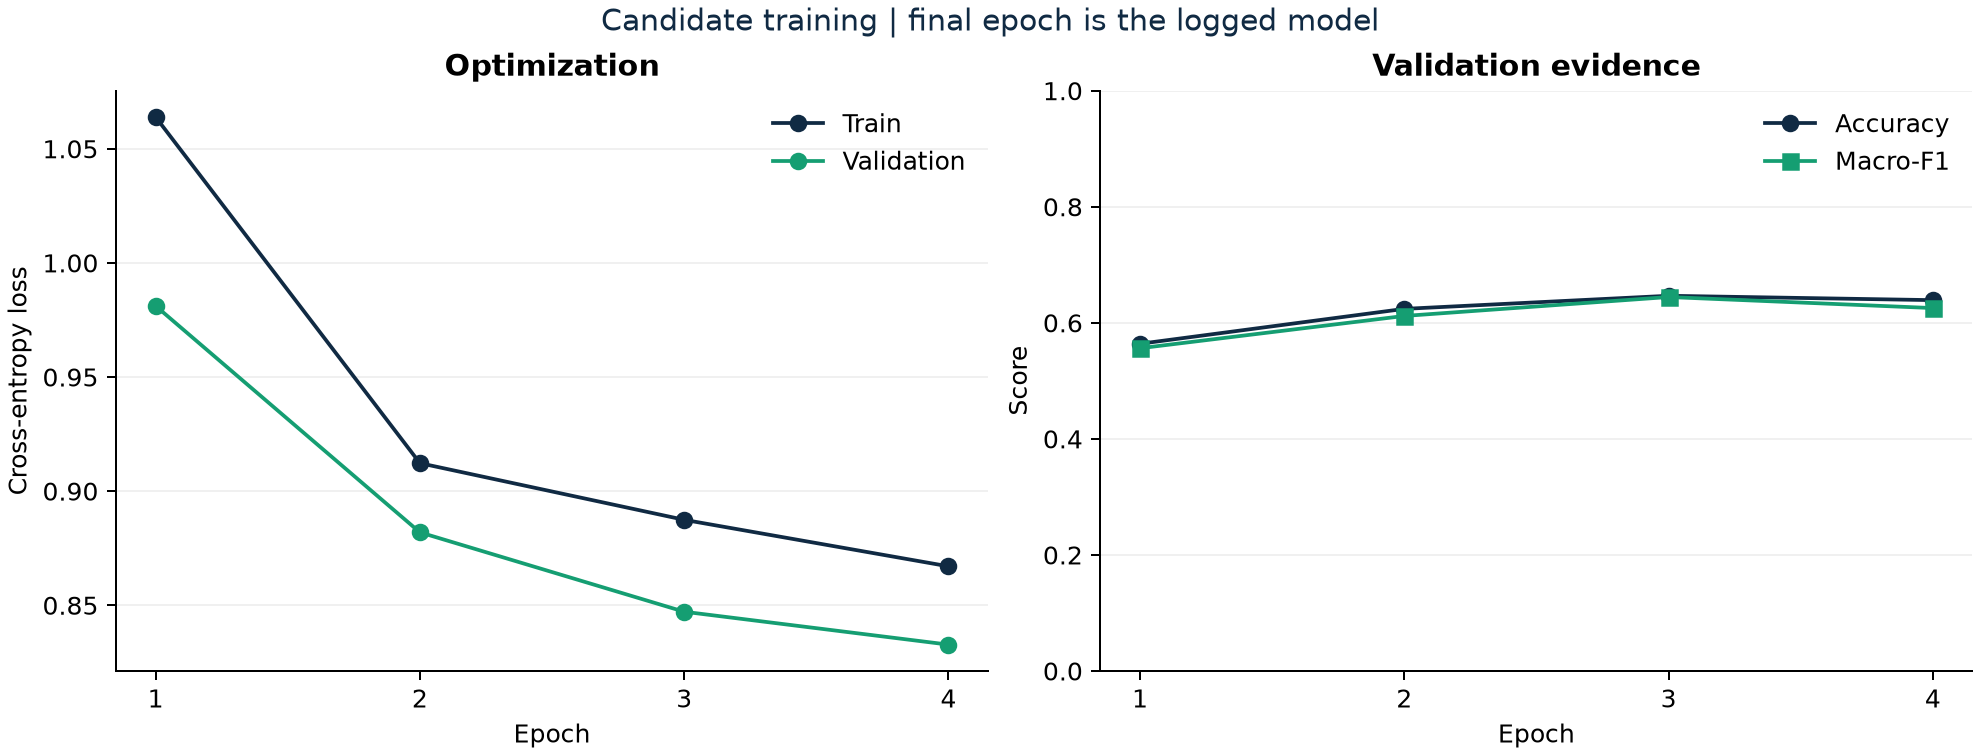
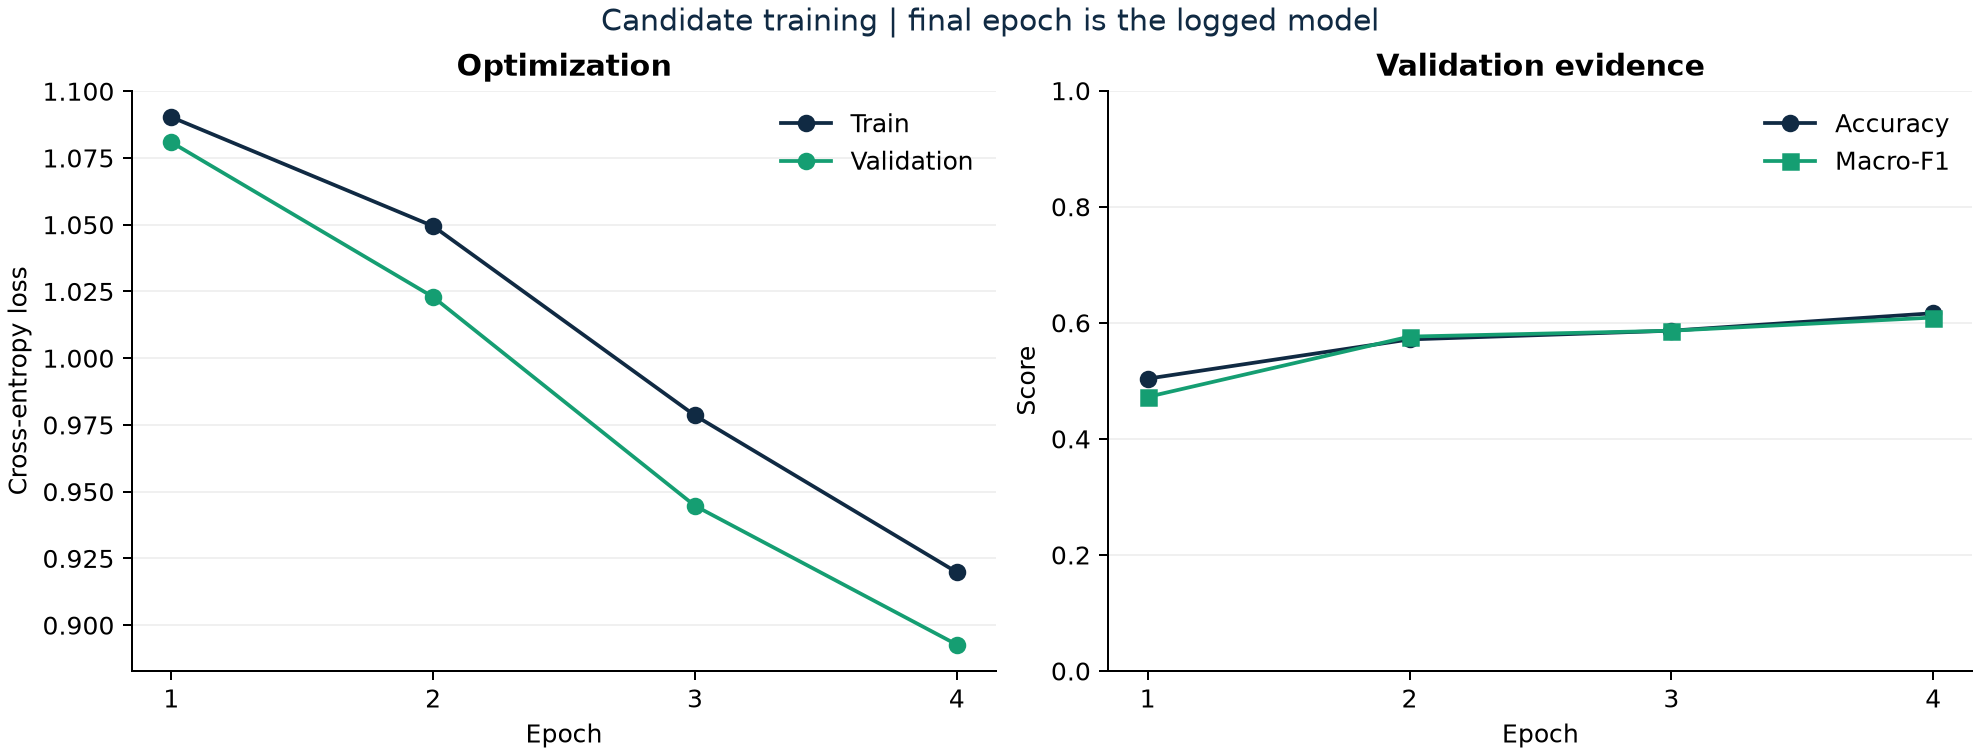
Record Run B and the recomputation checks

diff --git a/LAB_REPORT.md b/LAB_REPORT.md
@@ -359,3 +359,42 @@ Stage 'train' didn't change, skipping
 $ sha256sum -c   (hash of reports/data_quality.json taken before the run)
 reports/data_quality.json: OK
 ```
+
+### 6.4 Run B (learning rate 0.0003)
+
+`params.yaml` changed and committed alone (`a9b7b9d Lower the learning rate for Run B`), then `uv run --locked dvc repro train`:
+
+```
+'data/raw.dvc' didn't change, skipping
+Stage 'validate' didn't change, skipping
+Stage 'prepare' didn't change, skipping
+Running stage 'train':
+Epoch 01/4 | train_loss=1.0903 | val_loss=1.0809 | val_acc=0.5038 | val_macro_f1=0.4723
+Epoch 02/4 | train_loss=1.0495 | val_loss=1.0229 | val_acc=0.5714 | val_macro_f1=0.5763
+Epoch 03/4 | train_loss=0.9785 | val_loss=0.9447 | val_acc=0.5865 | val_macro_f1=0.5864
+Epoch 04/4 | train_loss=0.9198 | val_loss=0.8927 | val_acc=0.6165 | val_macro_f1=0.6091
+Training complete. MLflow Run ID: e4c8dd28b6e44247a8561f226dd8ac7e
+Updating lock file 'dvc.lock'
+```
+
+**Run B ID: `e4c8dd28b6e44247a8561f226dd8ac7e`** (MLflow shows `learning_rate=0.0003`, all other params identical to Run A).
+
+Its manifest records commit `a9b7b9d` with `dirty: true` and `changed_paths: [reports/run_manifest.json, reports/train_summary.json, reports/training_curves.png]`: DVC deletes a stage's previous outputs before running it, so Git sees TRAIN's own reports as deleted when the manifest is written. The code and params in that commit are exactly what was run.
+
+### Observed recomputation
+
+| Check | VALIDATE | PREPARE | TRAIN | EVALUATE | Evidence |
+|-------|----------|---------|-------|----------|----------|
+| 1. Rerun, nothing changed | REUSED | REUSED | REUSED | NOT RUN | `Stage 'validate' didn't change, skipping` (same for prepare, train), `Data and pipelines are up to date.` |
+| 2. Comment in `src/validate_data.py`, report unchanged | RERUN | REUSED | REUSED | NOT RUN | `Running stage 'validate'`, `Stage 'prepare' didn't change, skipping`, `Stage 'train' didn't change, skipping`; report hash unchanged (`sha256sum -c`: OK) |
+| 3. `train.learning_rate` 0.001 to 0.0003 | REUSED | REUSED | RERUN | NOT RUN | `Stage 'validate' didn't change, skipping`, `Stage 'prepare' didn't change, skipping`, `Running stage 'train'` |
+
+EVALUATE is NOT RUN in every check because `dvc repro train` only runs `train` and its upstream stages, and EVALUATE is on a separate branch of the DAG.
+
+**Comparison with the predictions.** All observed results match the predictions for VALIDATE, PREPARE and TRAIN:
+
+- Check 3 is the `train.learning_rate` row: only TRAIN reran, because the key is only in `train.params`.
+- Check 2 is the validator-edit row: VALIDATE reran because its code dep changed, but the deterministic report kept the same hash, so DVC stopped there. If the report had contained a timestamp, PREPARE and TRAIN would have rerun for nothing.
+- Check 1 has no change at all and behaves like the `README.md` row: nothing reran because no dep, param or output changed.
+
+The only difference from the prediction table is the EVALUATE column: I predicted REUSED (the saved results would still be valid), and DVC reports it as NOT RUN because `dvc repro train` does not consider it at all. The `data.image_size` row was not executed. It would have retrained and invalidated the selected Run.
